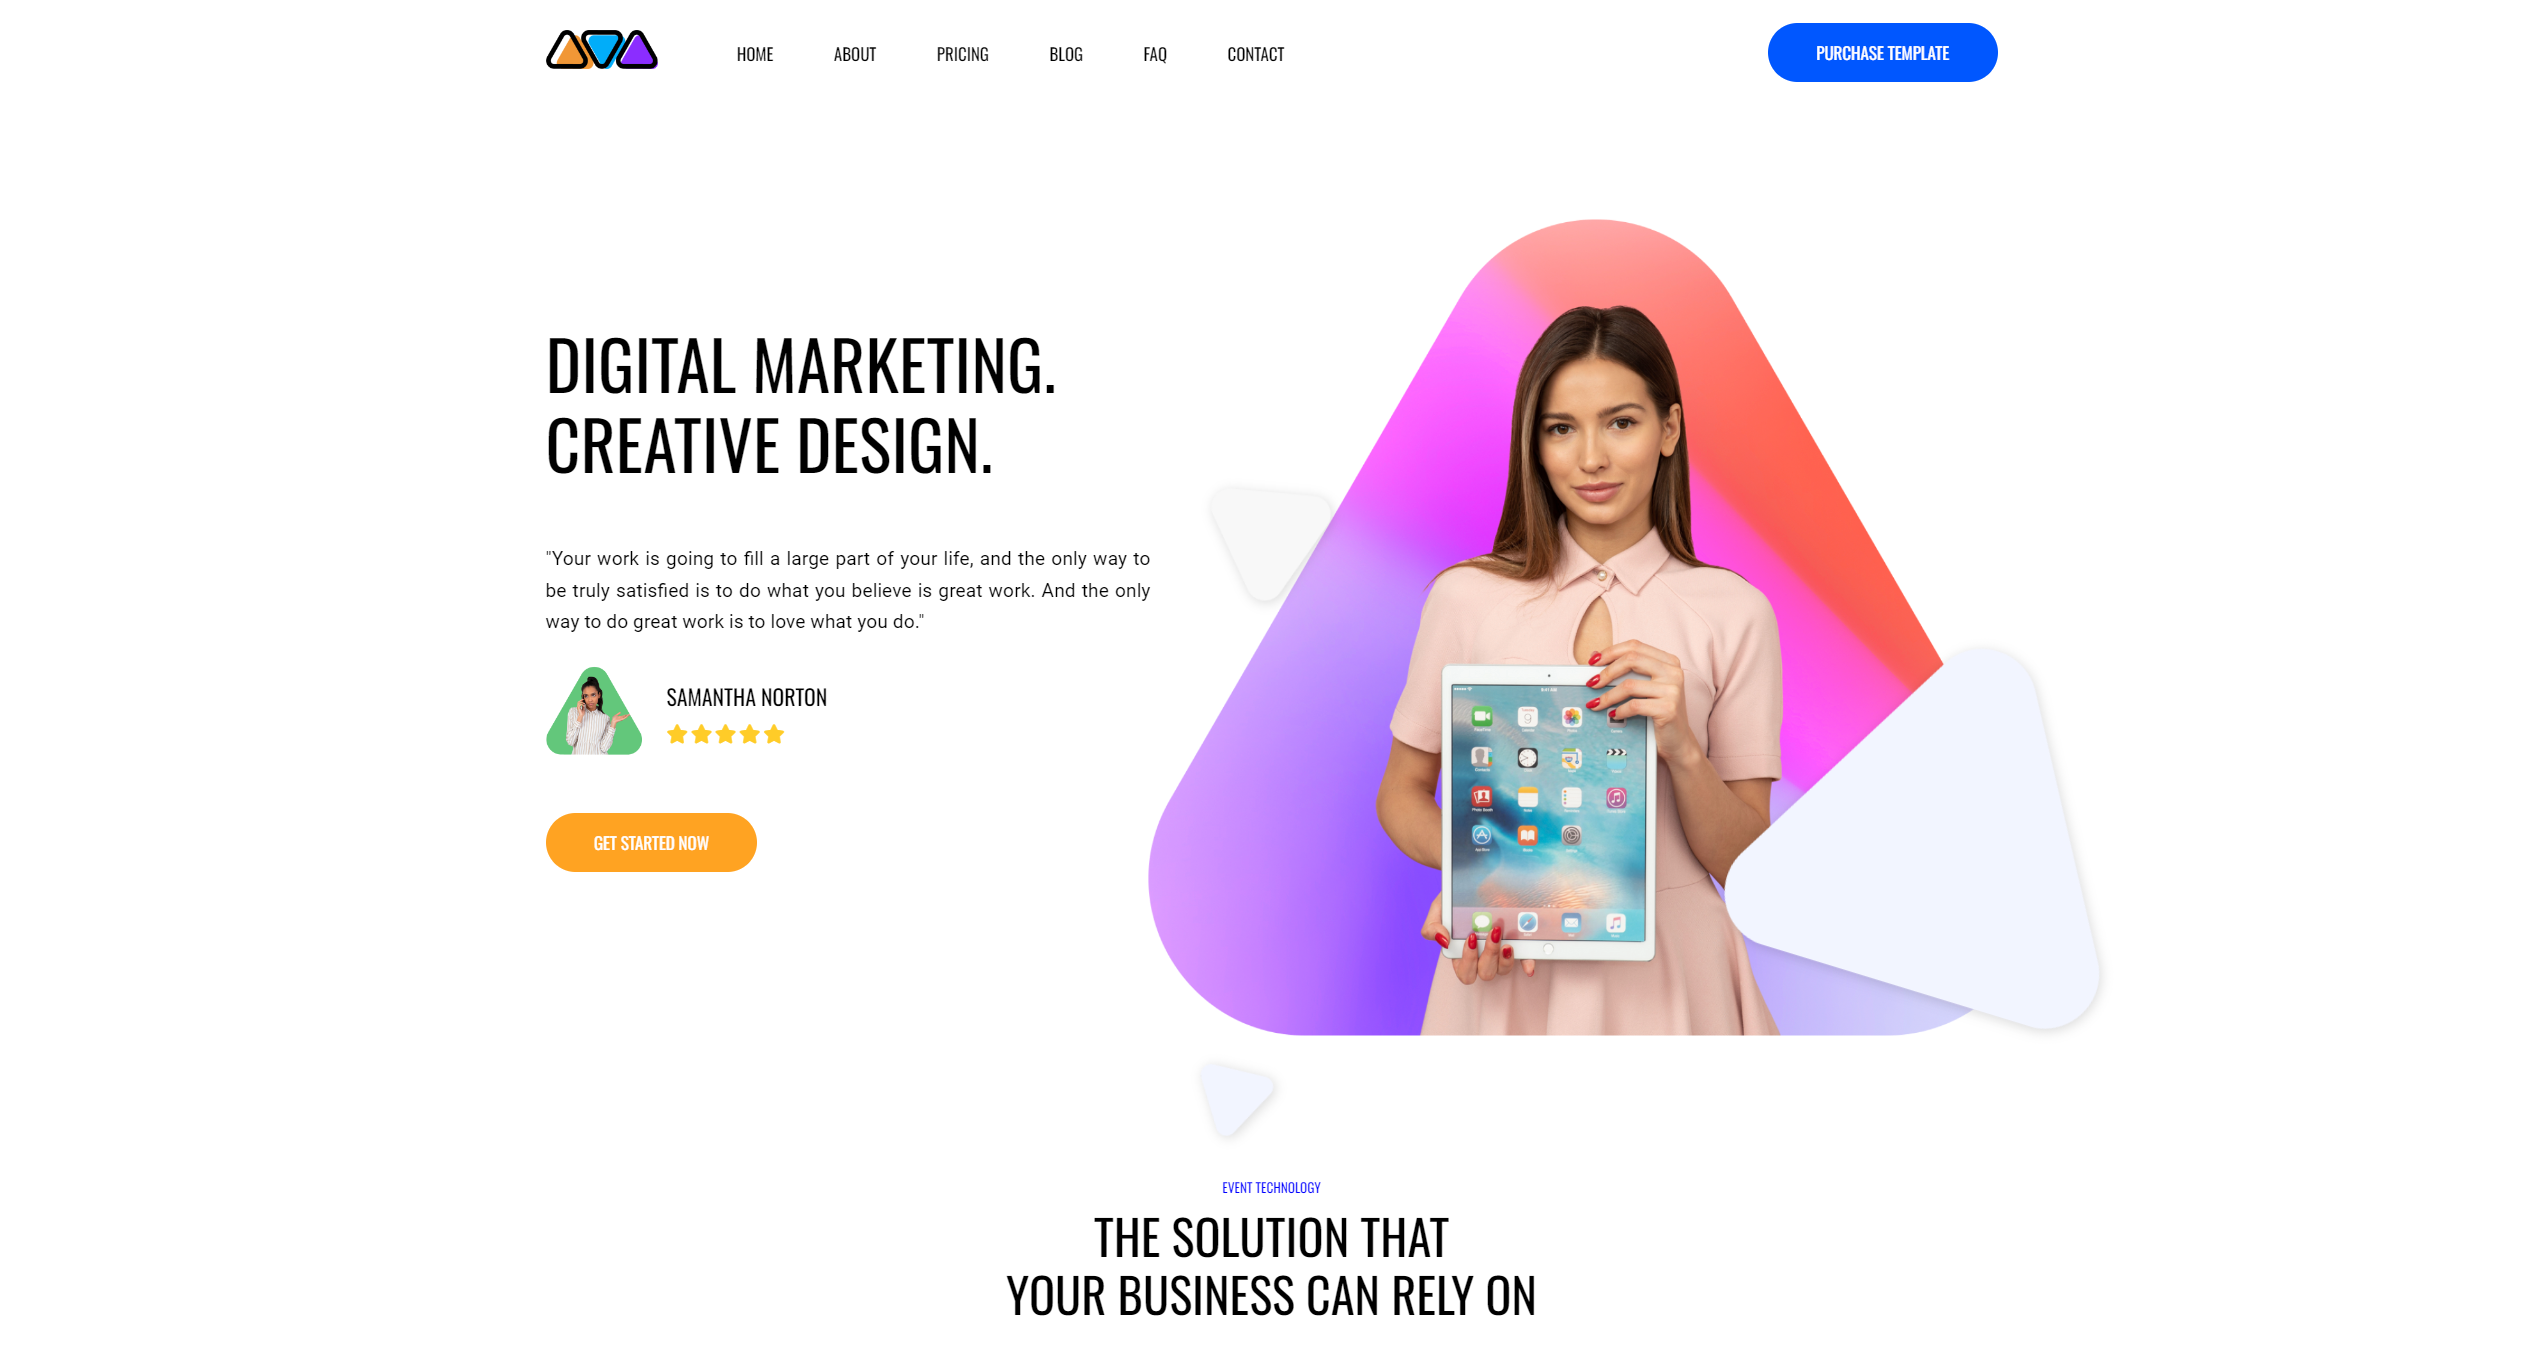
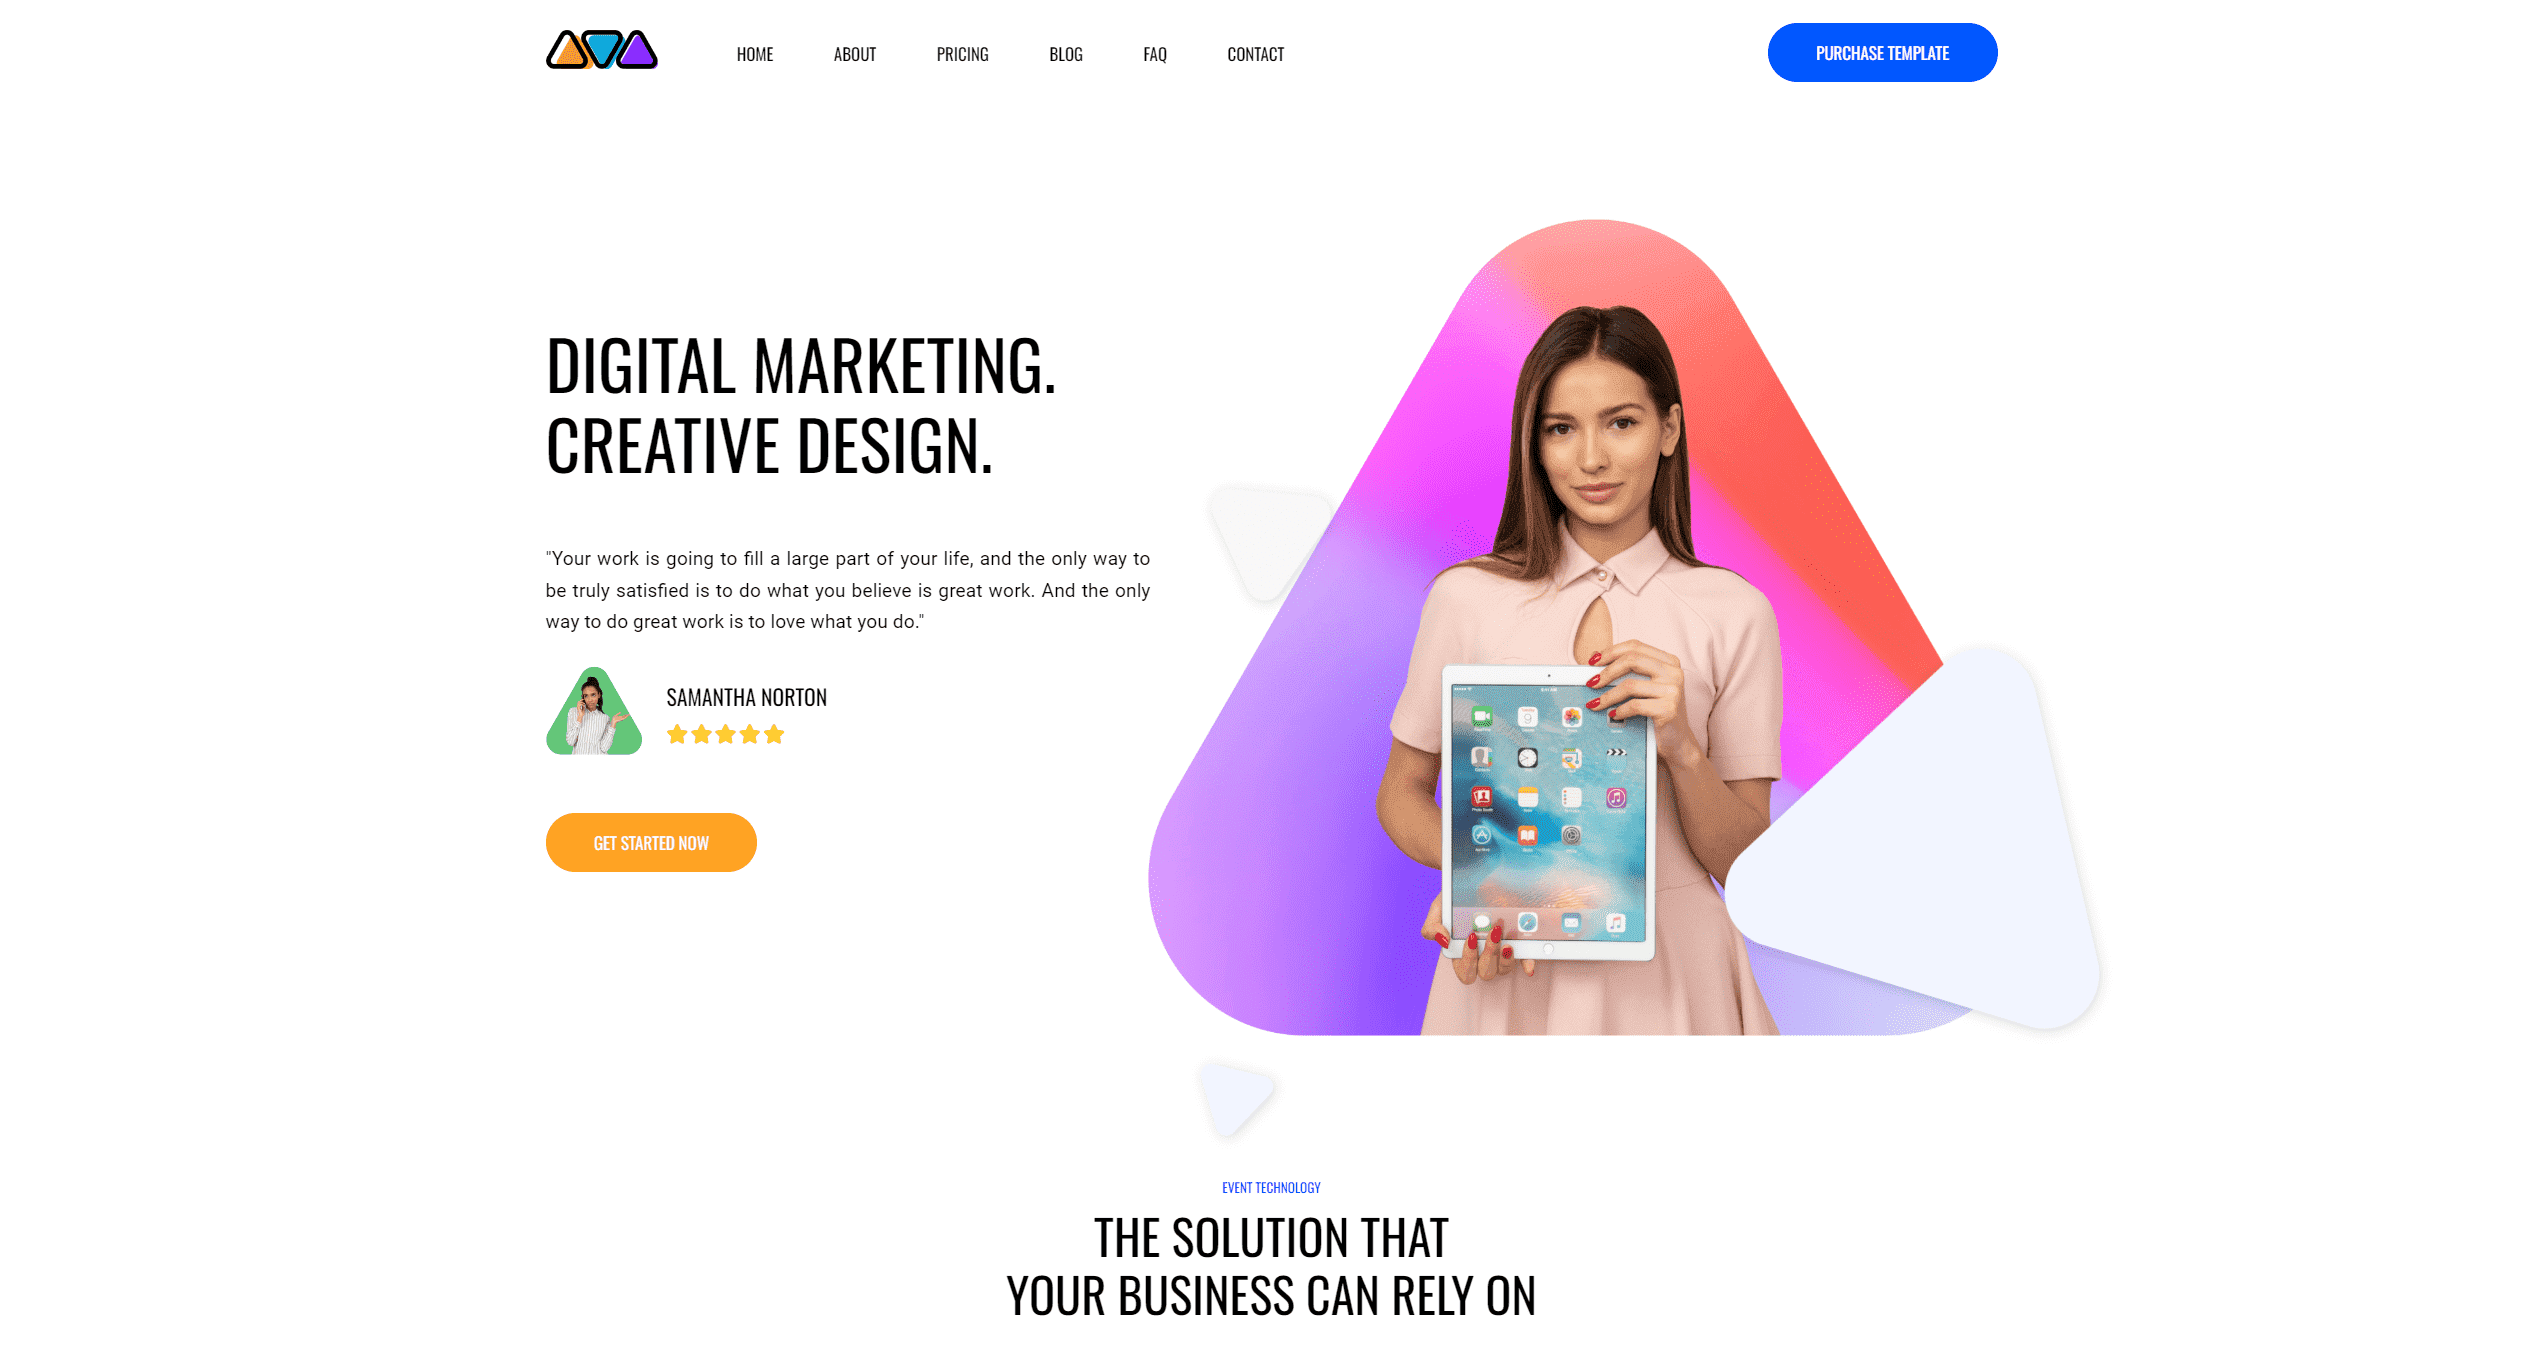
optimized image sizes and mobile scrolling fixed

diff --git a/src/utils/layoutChagers.ts b/src/utils/layoutChagers.ts
@@ -16,7 +16,7 @@ export function changeLayout(oldLayout: IGrid[], newLayout: IGrid[]): void {
 	}
 }
 
-export function screenLayout(layout: IGrid[], allLayout: IGrid[], aboutLayout: IGrid[], workLayout: IGrid[], rowHeight: Ref<number>): void {
+export function screenLayout(layout: IGrid[], allLayout: IGrid[], aboutLayout: IGrid[], workLayout: IGrid[], rowHeight: Ref<number>, isDraggable: Ref<boolean>): void {
 	const navState: string = useNavbarStateStore().$state.tab
 
 	if (screen.width < 800) {
@@ -30,6 +30,8 @@ export function screenLayout(layout: IGrid[], allLayout: IGrid[], aboutLayout: I
 		}
 
 		rowHeight.value = 30
+		isDraggable.value = false
+
 		changeLayout(allLayout, mobileAllLayout)
 		changeLayout(aboutLayout, mobileAboutLayout)
 		changeLayout(workLayout, mobileWorkLayout)
@@ -45,10 +47,12 @@ export function screenLayout(layout: IGrid[], allLayout: IGrid[], aboutLayout: I
 		}
 
 		rowHeight.value = 11
+		isDraggable.value = true
+
 		changeLayout(allLayout, mdAllLayout)
 		changeLayout(aboutLayout, mdAboutLayout)
 		changeLayout(workLayout, mdWorkLayout)
-	} else if (screen.width >= 1200) {
+	} else if (screen.width > 1200) {
 
 		if (navState === 'all') {
 			changeLayout(layout, mainAllLayout)
@@ -59,6 +63,8 @@ export function screenLayout(layout: IGrid[], allLayout: IGrid[], aboutLayout: I
 		}
 
 		rowHeight.value = 22
+		isDraggable.value = true
+
 		changeLayout(allLayout, mainAllLayout)
 		changeLayout(aboutLayout, mainAboutLayout)
 		changeLayout(workLayout, mainWorkLayout)

diff --git a/src/App.vue b/src/App.vue
@@ -16,8 +16,9 @@ const layout: IGrid[] = reactive(mainLayout)
 let allLayout: IGrid[] = mainAllLayout
 let aboutLayout: IGrid[] = mainAboutLayout
 let workLayout: IGrid[] = mainWorkLayout
-const rowHeight: Ref<number> = ref(22)
 
+const rowHeight: Ref<number> = ref(22)
+const isDraggable: Ref<boolean> = ref(true)
 
 watch(useNavbarStateStore().$state, () => {
 	tabLayout(layout, allLayout, aboutLayout, workLayout)
@@ -25,11 +26,11 @@ watch(useNavbarStateStore().$state, () => {
 
 
 watch(width, () => {
-	screenLayout(layout, allLayout, aboutLayout, workLayout, rowHeight)
+	screenLayout(layout, allLayout, aboutLayout, workLayout, rowHeight, isDraggable)
 }, {deep: true})
 
 onMounted(() => {
-	screenLayout(layout, allLayout, aboutLayout, workLayout, rowHeight)
+	screenLayout(layout, allLayout, aboutLayout, workLayout, rowHeight, isDraggable)
 })
 
 </script>
@@ -40,7 +41,7 @@ onMounted(() => {
 		<Background/>
 		<Navbar/>
 		<div class="h-auto mb-36 pb-36 mx-auto 2xl:w-[70%] xl:w-[85%] lg:w-[90%] md:w-[95%] sm:w-[95%]">
-			<Grid :cols="12" :layout="layout" :row-height="rowHeight"/>
+			<Grid :cols="12" :is-draggable="isDraggable" :layout="layout" :row-height="rowHeight"/>
 		</div>
 	</div>
 

diff --git a/src/components/grid.vue b/src/components/grid.vue
@@ -7,6 +7,7 @@ import type {IGrid} from "@/utils/IGrid";
 defineProps<{
 	layout: IGrid[],
 	rowHeight: number,
+	isDraggable: boolean,
 }>()
 
 </script>
@@ -14,6 +15,7 @@ defineProps<{
 <template>
 	<grid-layout
 		:col-num="12"
+		:is-draggable="isDraggable"
 		:isResizable="false"
 		:layout="layout"
 		:margin="[15, 15, 15, 15]"
@@ -48,7 +50,7 @@ defineProps<{
 	box-sizing: border-box;
 	transition: all .350s ease-in-out;
 	transition-property: left, top, right;
-	@apply touch-none sm:!touch-auto;
+	@apply touch-none max-sm:!touch-auto;
 }
 
 .vue-grid-item.no-touch {

diff --git a/src/components/grid-items/projects/e-book.vue b/src/components/grid-items/projects/e-book.vue
@@ -10,7 +10,7 @@ const link = 'https://github.com/Lux1177/book-front'
 <template>
 	<Project :project-link="link" :technologies="technologies" project-name="E-Book website with Back-end"
 	         project-src="Team Project - Online course" project-src-icon="fluent:people-team-28-regular">
-		<img alt="" class="w-full h-full object-cover" src="@/assets/img/e-book.png">
+		<img alt="E-Book home page" class="w-full h-full object-cover" src="@/assets/img/e-book.png">
 	</Project>
 </template>
 

diff --git a/src/components/grid-items/projects/project.vue b/src/components/grid-items/projects/project.vue
@@ -33,7 +33,8 @@ defineProps({
 	<div class="w-full h-full py-5 px-7 flex flex-col justify-between items-center pb-6">
 
 		<div
-			class="max-[480px]:aspect-square 2xl:mb-7 w-full aspect-video rounded-xl overflow-hidden shadow-lg img-shadow object-fill dark:shadow-slate-800">
+			class="2xl:mb-7 w-full aspect-video rounded-xl overflow-hidden shadow-lg
+			img-shadow object-fill dark:shadow-slate-800 z-10">
 			<slot></slot>
 		</div>
 

diff --git a/src/components/grid-items/projects/vue-sneakers.vue b/src/components/grid-items/projects/vue-sneakers.vue
@@ -9,7 +9,7 @@ const link = 'https://github.com/Lux1177/vue-sneakers'
 
 <template>
 	<Project :project-link="link" :technologies="technologies" project-name="Sneakers Shop">
-		<img alt="" class="w-full h-full object-cover" src="@/assets/img/vue-sneakers.png">
+		<img alt="Vue-Sneaakers shop home page" class="w-full h-full object-cover" src="@/assets/img/vue-sneakers.png">
 	</Project>
 </template>
 

diff --git a/src/components/grid-items/projects/ipdc-finance.vue b/src/components/grid-items/projects/ipdc-finance.vue
@@ -9,7 +9,7 @@ const link = 'https://github.com/Lux1177/IPDC_project'
 
 <template>
 	<Project :project-link="link" :technologies="technologies" project-name="IPDC Finance">
-		<img alt="" class="w-full h-full object-cover" src="@/assets/img/ipdc-finance.png">
+		<img alt="IPDC Finance home page" class="w-full h-full object-cover" src="@/assets/img/ipdc-finance.png">
 	</Project>
 </template>
 

diff --git a/src/components/grid-items/projects/crm-system.vue b/src/components/grid-items/projects/crm-system.vue
@@ -9,7 +9,7 @@ const link = 'https://github.com/Lux1177/crm-system-nuxt'
 
 <template>
 	<Project :project-link="link" :technologies="technologies" project-name="Crm System">
-		<img alt="" class="w-full h-full object-cover" src="@/assets/img/crm-system.png">
+		<img alt="CRM System home page" class="w-full h-full object-cover" src="@/assets/img/crm-system.png">
 	</Project>
 </template>
 
